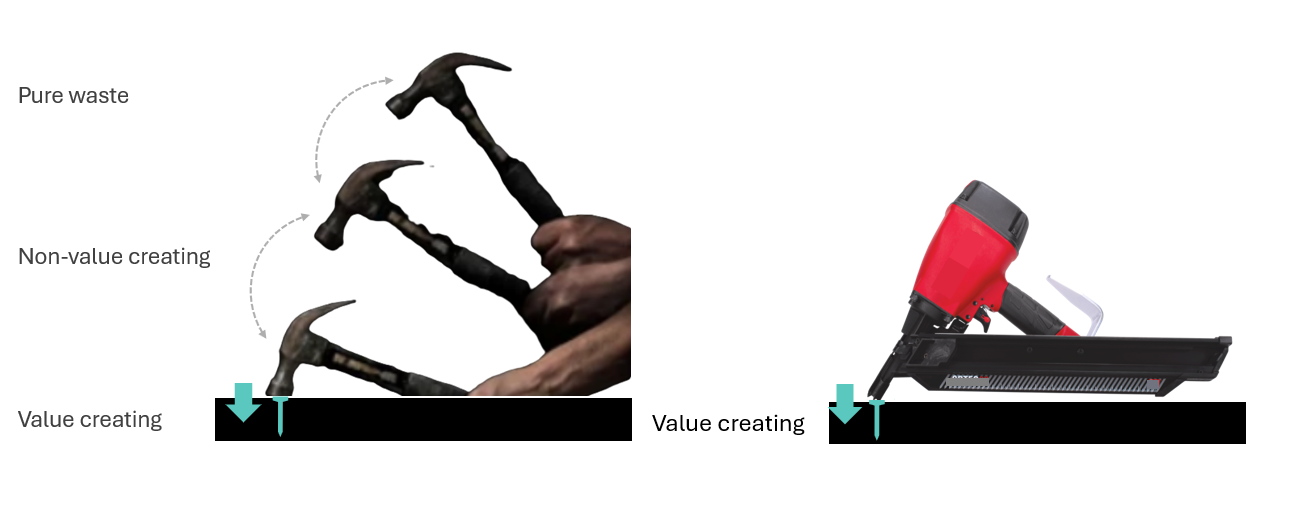
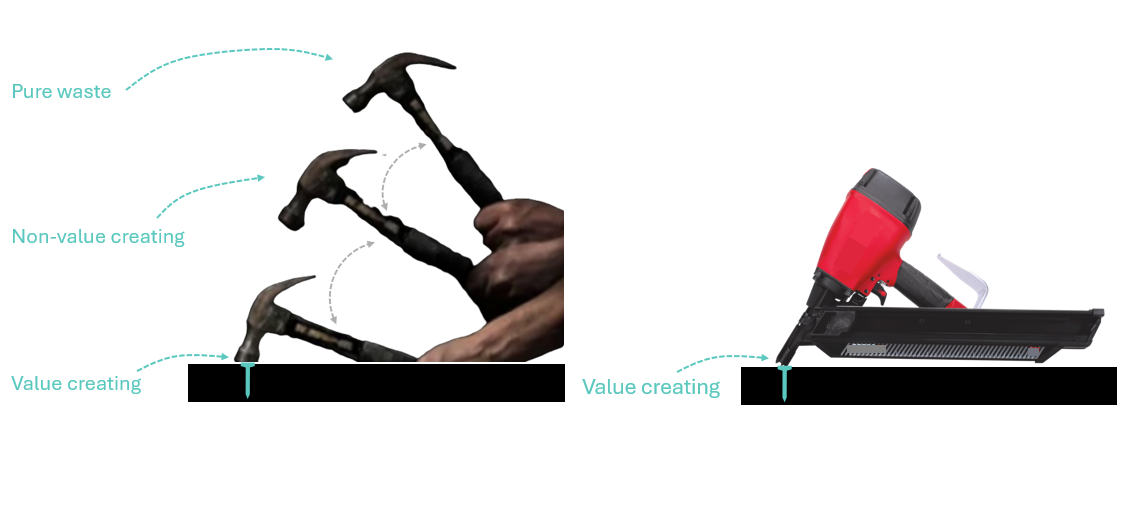
update plots

diff --git a/docs/data-analysis-mfg.html b/docs/data-analysis-mfg.html
@@ -254,7 +254,7 @@ div.csl-indent {
 <section id="pdca-method-and-quality-tools-in-manufacturing" class="level3">
 <h3 class="anchored" data-anchor-id="pdca-method-and-quality-tools-in-manufacturing"><span style="color: #9D0F6A ;"><strong>PDCA Method and Quality Tools in Manufacturing</strong></span></h3>
 <ul>
-<li><p>How AI tools (e.g predictive, generative, and agentic) can support implementation of lean culture in business?</p></li>
+<li><p>How AI tools (e.g predictive, generative, and agentic models) could support implementation of lean culture in business?</p></li>
 <li><p>How to incorporate lean principles, PDCA method and quality tools into an AI agent and make it useful in solving manufacturing problems?</p>
 <div class="quarto-figure quarto-figure-center">
 <figure class="figure">
@@ -262,21 +262,25 @@ div.csl-indent {
 <figcaption>RAG Application Pipeline</figcaption>
 </figure>
 </div></li>
-<li><p>The basic idea of PDCA method is create a universal language to serve as a guide for thinking during the problem-solving process. If language is the vehicle of thought <span class="citation" data-cites="wittgenstein2022">Wittgenstein and Monk (<a href="#ref-wittgenstein2022" role="doc-biblioref">2022</a>)</span>, PDCA is a way to make that vehicle faster.</p>
+<li><p>The basic idea of PDCA method is create a universal language to serve as a guide for thinking during the problem-solving process. If language is the vehicle of thought <span class="citation" data-cites="wittgenstein2022">Wittgenstein and Monk (<a href="#ref-wittgenstein2022" role="doc-biblioref">2022</a>)</span>, PDCA is a way to make that vehicle faster.</p></li>
+<li><p>The basic idea of the quality tools is reduce waste during performing a value-added task or process, for example time, effort, unnecessary movement etc.</p>
 <div class="quarto-figure quarto-figure-center">
 <figure class="figure">
 <p><img src="img/PDCA.png" class="img-fluid figure-img"></p>
 <figcaption>PDCA (Plan-do-check-action) Method</figcaption>
 </figure>
 </div></li>
-<li><p>The basic idea of Lean principles is to focus on the customer that requires a smooth flow in production and elimination of waste during the value-adding process. The quality is built into every step (e.g engineering, production, shipping) making it more adaptable to changing environment, and improvement is driven by workers. One example of value is how much the customer is willing to pay for something.</p>
-<ul>
+<li><p>The basic idea of Lean principles is to focus on the customer value that requires a smooth flow in production and elimination of waste during the value-adding process. The quality is built into every step (e.g engineering, production, shipping) making it more adaptable to changing environment, and improvement is driven by workers. One example of value is how much the customer is willing to pay for something.</p></li>
 <li><p>Value-added activity: transforms or shape materials, and the customer wants it</p></li>
 <li><p>Non-value added activity necessary waste: No value is created, but cannot be eliminated based on current technology, policy or thinking for example regulatory procedures, inspections, invoices etc.</p></li>
 <li><p>Non-value added activity pure waste: No value is created and consumes resources for example inventory, rework, excess steps and checks, accidents, scraps, waiting times.</p></li>
-</ul></li>
-<li><p>The basic idea of the quality tools is reduce waste during performing a value-added task or process, for example time, effort, unnecessary movement etc.</p></li>
 </ul>
+<div class="quarto-figure quarto-figure-center">
+<figure class="figure">
+<p><img src="img/muda_example.png" class="img-fluid figure-img"></p>
+<figcaption>Example of value-added activity</figcaption>
+</figure>
+</div>
 </section>
 <section id="data-science-in-manufacturing" class="level3">
 <h3 class="anchored" data-anchor-id="data-science-in-manufacturing"><span style="color: #9D0F6A ;"><strong>Data Science in Manufacturing</strong></span></h3>

diff --git a/docs/mit-course-advm.html b/docs/mit-course-advm.html
@@ -292,7 +292,23 @@ div.csl-indent {
 </ul></li>
 <li><p>Lean’s succes hinges on a strong social contract between employees and the company, fostering a cultura of continuous improvement. Workers will only contribute ideas if they feel the arrangement is fair and mutually beneficial. Employees are commited to dedicate themselves to their jobs, while the company is commited to provide opportunities for skill development, enabling employees to defend their jobs. This creates a resilient system when functioning correctly, but one that becomes fragile when trust erodes.</p></li>
 <li><p>Lean focused on reduce waste and six sigma focused on reduced variation. Enterprises usually adopt their own name (e.g Pratt &amp; Whitney - ACE, US air Force - AFS021, Boeig - Lean+ , New York City Health &amp; Hospitals Corp - Breakthrough)</p></li>
-<li><p>Evolution of Lean Implementation that has shifted from a consultant-driven. “quick-fix” approach to a coaching model that empowers employees to identify and solve problems themselves.</p></li>
+</ul>
+<div class="quarto-figure quarto-figure-center">
+<figure class="figure">
+<p><img src="img/process_stability.png" class="img-fluid figure-img"></p>
+<figcaption>Example of basic stability</figcaption>
+</figure>
+</div>
+<ul>
+<li>Evolution of Lean Implementation that has shifted from a consultant-driven. “quick-fix” approach to a coaching model that empowers employees to identify and solve problems themselves.</li>
+</ul>
+<div class="quarto-figure quarto-figure-center">
+<figure class="figure">
+<p><img src="img/muda_types.png" class="img-fluid figure-img"></p>
+<figcaption>Example of waste</figcaption>
+</figure>
+</div>
+<ul>
 <li><p>Shifting from KPIs to Problem-Solving or instead of giving orders and say do that, do this, they say “Okay, here’s the problem, here is the gap that we’re trying to close, what are you going to do, how can I help?” That is a different conversation than “make your numbers”.</p></li>
 <li><p>Tesla vs Toyota: Toyota started in 1935 and they only got their system perfected by the mid-1960s. It took them 30 years of experiments and they’ve struggled across the world to maintain the standard as they’ve grown.</p></li>
 <li><p>Cost price relationship</p></li>
